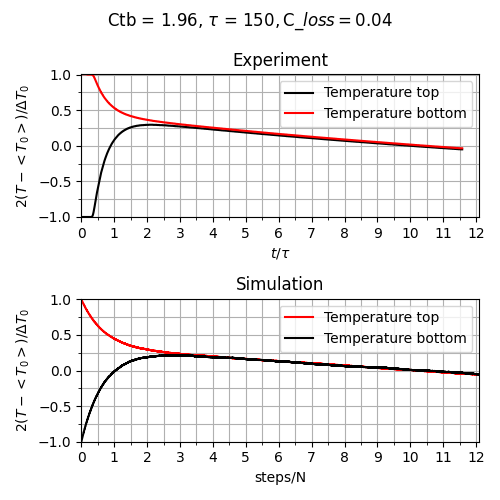
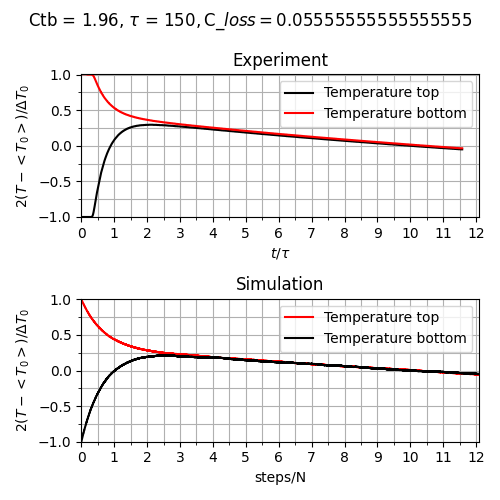
fixed heat loss logic to not dip below room temperature

diff --git a/Obligs/Oblig 1/diffusion_with_loss.py b/Obligs/Oblig 1/diffusion_with_loss.py
@@ -3,7 +3,7 @@ import numpy as np
 
 # Simulation parameters
 Ctb = 1.96  # Heat capacity ratio top to bottom
-C_loss = 1/25  # Heat loss coefficient
+C_loss = 1/18  # Heat loss coefficient
 N = 100_000  # Number of heat packets
 nstep = 15 * N  # Number of steps in simulation
 
@@ -32,14 +32,14 @@ for i in range(1, nstep):
 
     # Randomized heat loss to air in the same fashion as the above diffusion:
     # heat loss top
-    rt = 4 * np.random.rand(1, 1) - 2  # Random number between 2 and -2
+    rt = np.random.uniform(0, 2)  # Random number between 0 and 2
     DTt = Tt[i] - Tr  # Temperature difference top to room
     if rt < DTt:
         # Subtract one heat quanta multiplied by heat loss coefficient
         Tt[i] -= C_loss / N
 
     # heat loss bottom
-    rb = 4 * np.random.rand(1, 1) - 2
+    rb = np.random.uniform(0, 2)  # Random number between 0 and 2
     DTb = Tb[i] - Tr  # Temperature difference bot to room
     if rb < DTb:
         Tb[i] -= C_loss / N
